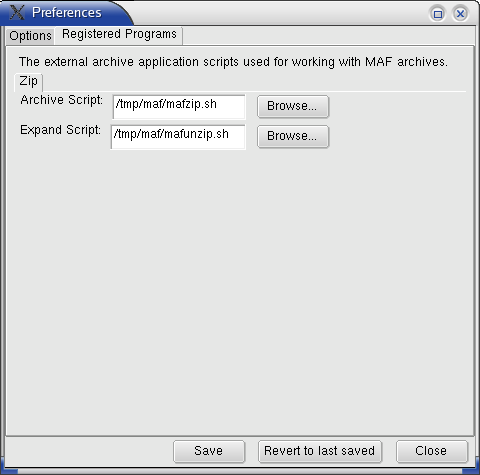
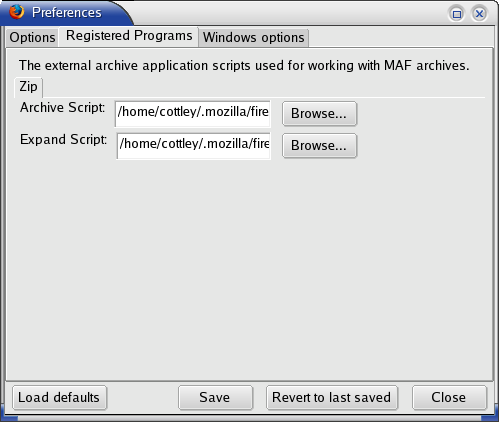
Website update for 0.3.0

Changed region(s): [[0.0, 0.0, 1.0, 0.4005], [0.0, 0.8934, 1.0, 1.0]]

diff --git a/www/installation.html b/www/installation.html
@@ -1,25 +1,49 @@
 <!-- MAIN CONTENT -->
 <h5 class="page-header"><a id="content" name="content">Installation</a></h5>
 
-<p>Latest XPI - <a href="http://downloads.mozdev.org/maf/maf-linux-0.2.20.xpi">0.2.20 for Linux</a></p>
+<p>Below you will find links to the latest XPI installer packages. If this is your first time installing MAF select a operating system specific package. If you have previously installed MAF and there is an XPI upgrade available, then install the upgrade. If you have previously installed MAF but there is no XPI upgrade for your version, please uninstall MAF and then install the latest operating system specific package.</p>
 
-<p>Latest XPI - <a href="http://downloads.mozdev.org/maf/maf-windows-0.2.20.xpi">0.2.20 for Windows</a></p>
+<p>Latest XPI - <a href="http://downloads.mozdev.org/maf/maf-linux-0.3.0.xpi">0.3.0 for Linux</a></p>
 
-<p>Latest XPI Upgrade - <a href="http://downloads.mozdev.org/maf/maf-0.2.20.xpi">from 0.2.19 to 0.2.20 platform independent</a></p>
+<p>Latest XPI - <a href="http://downloads.mozdev.org/maf/maf-windows-0.3.0.xpi">0.3.0 for Windows</a></p>
+
+<!-- p>Latest XPI Upgrade - <a href="http://downloads.mozdev.org/maf/maf-0.3.1.xpi">from 0.3.0 to 0.3.1 platform independent</a></p -->
+
+<p>Please note, if you have previously installed MAF and are installing the 0.3.0 version, the location of scripts and some settings have changed. In order to use the new scripts, go to the <a href="preferences.html">preferences</a>, click on the "Load defaults" button and save the new preferences.</p>
 
 <p>The XPI also sets up the scripts that would be used to perform the actual archiving. This only has to be done once. This is not done if a platform independent upgrade is used. After this is done, the preferences for the MAF extension should be set. MAF is configured by default to work with Infozip's Zip and Unzip programs.</p>
 
-<p>After the utilities have been setup, complete the configuration by checking the <a href="preferences.html">preferences</a>.</p>
+<p>After MAF has been setup, complete the configuration by checking the <a href="preferences.html">preferences</a>.</p>
 
-<p>Previous XPI - <a href="http://downloads.mozdev.org/maf/maf-linux-0.2.19.xpi">0.2.19 for Linux</a></p>
+<p>Previous XPI - <a href="http://downloads.mozdev.org/maf/maf-linux-0.2.20.xpi">0.2.20 for Linux</a></p>
 
-<p>Previous XPI - <a href="http://downloads.mozdev.org/maf/maf-windows-0.2.19.xpi">0.2.19 for Windows</a></p>
+<p>Previous XPI - <a href="http://downloads.mozdev.org/maf/maf-windows-0.2.20.xpi">0.2.20 for Windows</a></p>
 
-<p>Previous XPI Upgrade - <a href="http://downloads.mozdev.org/maf/maf-0.2.19.xpi">from 0.2.18 to 0.2.19 platform independent</a></p>
+<p>Previous XPI Upgrade - <a href="http://downloads.mozdev.org/maf/maf-0.2.20.xpi">from 0.2.19 to 0.2.20 platform independent</a></p>
 
 
 <h5 class="page-header"><a id="changelog" name="changelog">Changes</a></h5>
 <pre>
+ * Changes from 0.2.20 to 0.3.0
+ *
+ * Styled the tree splitters in the browse open archives.
+ * Split javascript objects into seperate files. There is now also a global preference state.
+ * Selecting file from browse dialog should now start in directory if possible.
+ * Fixed bug that did not allow saving pages in an archive if the pages were in a new window.
+ * Retrofitted the download and archive code to use an observer event instead of interval timers. Should seem faster.
+ * Added drag and drop archive support.
+ * Added file association support and ability to open archives from Open File menu entry.
+ * Added an idle update function which gives the user some visual feedback when an archive is opened.
+ * Updated the MHT Handler to cater for saving multiple tabs.
+ * Fixed bug with file association and loading of preferences.
+ * MHT archive handler no longer dies on pages with frames.
+ * Filter index saved as a preference for MAF open and save archive dialogs.
+ * Fixed GUI file select bug and default preference loading bug.
+ * Post-install script run feature added - Can now run scripts from profile in FF.
+ * Can now load default preferences from dialog.
+ * Added preference to clear the temp folder when the browser closes.
+ *
+ *
  * Changes from 0.2.19 to 0.2.20
  *
  * Optional function that is executed when a single page is added to archive

diff --git a/www/preferences.html b/www/preferences.html
@@ -5,21 +5,30 @@
 
 <p>The additional available preferences for Windows are disabled on other platforms. The only preference like this thus far is the ability to execute a VBS script to hide the dos box that appears during batch file execution.</p>
 
-<p>Below are screen shots of the preferences dialog on Linux. In Linux ensure that the temporary directory to use is set to <b>/tmp/maf/maftemp/</b> or whatever temporary directory your script uses as seen in the figure below.</p>
+<p>Below are screen shots of the preferences dialog on Linux. The new default temporary directory is in the user's profile. If you have installed a version of MAF older than 0.3.0 click the "Load defaults" button to set the preferences to the new defaults that use the new scripts. The variable %PROFILEDIR% refers to the folder that contains your browser's settings, such as history, cache, bookmarks etc. Remember to save after loading or the preferences will not be set. In Linux ensure that the temporary directory to use is set to <b>%PROFILEDIR%/maf/maftemp/</b> to use the latest scripts or whatever temporary directory your script uses if you have changed or added scripts as seen in the figure below.</p>
 
 <img src="images/linuxprefs1.png" alt="Linux preferences dialog - Tab 1" />
 
 <br />
 
-<p>Also ensure (by selecting the registered programs tab) that the handler scripts for the archiving and expansion tasks are setup properly as seen in the figure below. The archive script is set to <b>/tmp/maf/mafzip.sh</b> and the expansion script is set to <b>/tmp/maf/mafunzip.sh</b>.</p>
+<p>Also ensure (by selecting the registered programs tab) that the handler scripts for the archiving and expansion tasks are setup properly as seen in the figure below. The new defaults for the archive script location is set to <b>%PROFILEDIR%/maf/mafzip.sh</b> and the expansion script is set to <b>%PROFILEDIR%/maf/mafunzip.sh</b>.</p>
 
 <img src="images/linuxprefs2.png" alt="Linux preferences dialog - Tab 2" />
 
 <br />
 
-<p>The windows preference configuration is similar. The temporary directory to use would be <b>c:\temp\maf\maftemp\</b> and the scripts to use for archiving and expansion would be <b>c:\temp\maf\mafzip.bat</b> and <b>c:\temp\maf\mafunzip.bat</b> respectively.</p>
+<p>The windows preference configuration is similar. The temporary directory to use would be <b>%PROFILEDIR%\maf\maftemp\</b> and the scripts to use for archiving and expansion would be <b>%PROFILEDIR%\maf\mafzip.bat</b> and <b>%PROFILEDIR%\maf\mafunzip.bat</b> respectively.</p>
 
-<p>If you are a windows user and wish to use the VBS option <i>ENSURE</i> that the script archive and expansion processes are working first. After that is confirmed (by saving to an archive and opening it back) you can safely enable the VBS option. Browse to the location of wscript.exe (usually in the %WINDIR%\system32 directory). You also must correctly set the location of invis.vbs which should be at <b>c:\temp\maf\invis.vbs</b>.</p>
+<img src="images/linuxprefs3.png" alt="Linux preferences dialog - Tab 3" />
+
+<br/>
+
+<p>If you are a windows user and wish to use the VBS option <i>ENSURE</i> that the script archive and expansion processes are working first. After that is confirmed (by saving to an archive and opening it back) you can safely enable the VBS option. Browse to the location of wscript.exe (usually in the %WINDIR%\system32 directory). You also must correctly set the location of invis.vbs which should be at <b>%PROFILEDIR%\maf\invis.vbs</b>.</p>
+
+<p><b>Preferences: Clear Temporary folder when browser exits.</b>
+<br/><br/>
+If there are open archives and somehow a user finds a way to crash the browser, the next time the browser closes, with this preference enabled, the entire temporary folder is removed and re-created. This feature is available from MAF version 0.3.0 and higher.
+</p>
 
 <p><b>Preferences: Open Archive Mode</b>
 <br/><br/>

diff --git a/www/faq.html b/www/faq.html
@@ -3,29 +3,16 @@
 
 <p>Below are some of the more frequently asked questions so far about this project organized by categories:
 <ol>
-  <li>Functional</li>
-  <li>Website</li>
-  <li>Advocacy</li>
-  <li>Development</li>
-  <li>Personal</li>
+  <li><a href="#functional">Functional</a></li>
+  <li><a href="#website">Website</a></li>
+  <li><a href="#advocacy">Advocacy</a></li>
+  <li><a href="#development">Development</a></li>
+  <li><a href="#personal">Personal</a></li>
 </ol>
 </p>
 
+<a name="functional" />
 <h2>Functional</h2>
-
-<table border="0" cellpadding="5" cellspacing="5" valign="top">
-  <tr>
-    <td align="right">Question:</td>
-    <td>Why do I have to install an XPI and then other stuff?</td>
-  </tr>
-  <tr>
-    <td align="right">Answer:</td>
-    <td>This is still beta software, eventually there should only be an XPI and it'll take care of creating the scripts for you using the default Zip format. (Note from 0.2.18, script copying is included in the XPI).</td>
-  </tr>
-</table>
-
-<br /><br />
-
 <table border="0" cellpadding="5" cellspacing="5" valign="top">
   <tr>
     <td align="right">Question:</td>
@@ -33,7 +20,7 @@
   </tr>
   <tr>
     <td align="right">Answer:</td>
-    <td>First make sure that you have windows scripting installed and working. Make sure the path for the location of WSCRIPT.exe is set properly in the preferences. Also make sure invis.vbs exists and the path to that is set properly. If you move the location of your archive and expand scripts, ensure the directory structure you place them in has no spaces in the directory names.</td>
+    <td>First make sure that you have windows scripting installed and working. Make sure the path for the location of WSCRIPT.exe is set properly in the preferences. Also make sure invis.vbs exists and the path to that is set properly.</td>
   </tr>
 </table>
 
@@ -94,19 +81,6 @@
 <table border="0" cellpadding="5" cellspacing="5" valign="top">
   <tr>
     <td align="right">Question:</td>
-    <td>I'm on Linux and I try to create and archive but it doesn't work. What's up?</td>
-  </tr>
-  <tr>
-    <td align="right">Answer:</td>
-    <td>Odds are that the maf scripts don't have the execute flag set. Type <i>chmod +x /tmp/maf/*.sh</i> in a console.</td>
-  </tr>
-</table>
-
-<br /><br />
-
-<table border="0" cellpadding="5" cellspacing="5" valign="top">
-  <tr>
-    <td align="right">Question:</td>
     <td>I opened an archive and nothing happened. Why?</td>
   </tr>
   <tr>
@@ -151,17 +125,7 @@
 
 <br /><br />
 
-<table border="0" cellpadding="5" cellspacing="5" valign="top">
-  <tr>
-    <td align="right">Question:</td>
-    <td>I tried to save all the open tabs in an MHT archive. What did it do?</td>
-  </tr>
-  <tr>
-    <td align="right">Answer:</td>
-    <td>It appended each MHT page it generated to the file you specified. Basically, don't try this with the current released version (0.2.20).</td>
-  </tr>
-</table>
-
+<a name="website" />
 <h2>Website</h2>
 
 <table border="0" cellpadding="5" cellspacing="5" valign="top">
@@ -175,6 +139,7 @@
   </tr>
 </table>
 
+<a name="advocacy" />
 <h2>Advocacy</h2>
 
 <table border="0" cellpadding="5" cellspacing="5" valign="top">
@@ -201,6 +166,7 @@
   </tr>
 </table>
 
+<a name="development" />
 <h2>Development</h2>
 
 <table border="0" cellpadding="5" cellspacing="5" valign="top">
@@ -228,6 +194,7 @@
 </table>
 
 
+<a name="personal" />
 <h2>Personal</h2>
 
 <table border="0" cellpadding="5" cellspacing="5" valign="top">

diff --git a/www/index.html b/www/index.html
@@ -4,13 +4,13 @@
 <div class="infoTab" id="whats-new">
 <h5 class="infoHeader">What's New</h5>
 <ul>
-<li>MAF 0.2.20 released.</li>
+<li>MAF 0.3.0 released.</li>
 </ul>
 </div>
 
 
 <div class="infoTab" id="current-features">
-<h5 class="infoHeader">Currrent features</h5>
+<h5 class="infoHeader">Current features</h5>
 <ul>
 <li>Archive saved pages using a registered archive application</li>
 <li>Shortcut keys for opening and browsing open archives</li>
@@ -75,7 +75,7 @@
   </ul>
 </p>
 
-<p><b>Note:</b> This is currently beta software, use at your own risk.</p>
+<p><b>Note:</b> As of version 0.3.0 MAF is officially out of beta.</p>
 
 <p>
 <script language="Javascript" src="http://nextgenstats.com/cgi-bin/log.pl?site=13263490&amp;style=text&amp;offset=0"></script>

diff --git a/www/project_nav.html b/www/project_nav.html
@@ -22,7 +22,8 @@
   <a href="/list.html">Mailing List</a>
   <a href="/installation.html">Installation</a>
   <a href="/preferences.html">Preferences</a>
-  <a href="/faq.html">FAQ</a>    
+  <a href="/faq.html">FAQ</a>
+  <a href="/docs.html">Docs</a>  
   <a href="/source.html">Source Code</a>
   <a href="/members.html">Members</a>
   <a href="/bugs.html">Bugs</a>
